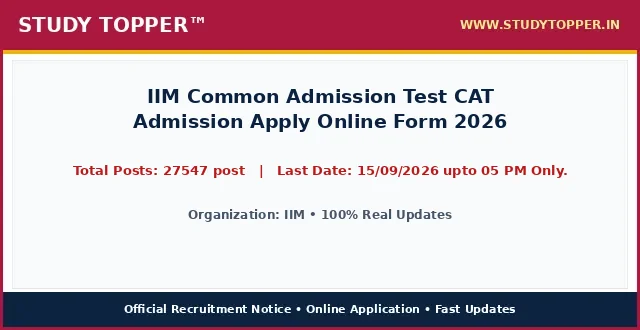
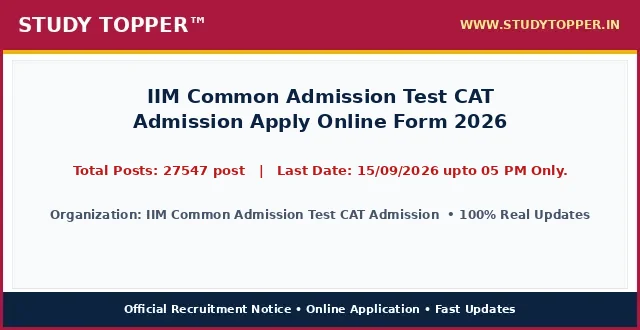
chore(lifecycle): daily auto-sort vacancies and update active dates

Changed region(s): [[0.0625, 0.6364, 0.9375, 0.6667]]

diff --git a/pages/iim-cat-jul26.html b/pages/iim-cat-jul26.html
@@ -987,12 +987,12 @@ ul.wp-block-latest-posts a:hover {
 <main class="site-main" id="main">
 <div class="gb-container gb-container-b39c368c">
 <h1 class="gb-headline gb-headline-e52a0102 gb-headline-text" style="font-size: 22px; font-weight: 700; color: #0000cd; text-align: left; margin: 8px 0 4px 0; line-height: 1.3; width: 100%; font-family: '-apple-system, BlinkMacSystemFont, 'Segoe UI', Roboto, 'Helvetica Neue', Arial, sans-serif', Times, serif, Hind, sans-serif;">IIM Common Admission Test CAT Admission Apply Online Form 2026</h1>
-<div class="gb-container gb-container-659bd175"><p style="color: #cd0808; font-weight: 700; font-size: 15px; margin: 2px 0 7px 0; text-align: left; font-family: '-apple-system, BlinkMacSystemFont, 'Segoe UI', Roboto, 'Helvetica Neue', Arial, sans-serif', Times, serif, Hind, sans-serif;">Post Date: August 22, 2026 12:18 PM</p></div>
-<p class="gb-headline gb-headline-550ae316 short_Details gb-headline-text" style="width: 100%; max-width: 100%; font-size: 16.8px; line-height: 1.55; color: #000000; text-align: justify; text-justify: inter-word; margin: 8px 0 14px 0; display: block; font-family: '-apple-system, BlinkMacSystemFont, 'Segoe UI', Roboto, 'Helvetica Neue', Arial, sans-serif', Times, serif, Hind, sans-serif;"><strong style="color: #0000cd;">IIM</strong> has officially published the recruitment notice <strong style="color: #cd0808;">IIM Common Admission Test CAT Admission Apply Online Form 2026</strong> under notification number 2026. Online applications are invited for 27547 post across multiple departments and cadre positions. Interested candidates possessing the requisite educational qualifications and falling between 18 Years to 40 Years can complete their online registration before the application deadline of 15/09/2026 upto 05 PM Only.. Applicants should read the eligibility criteria, category reservation rules, and exam scheme thoroughly before submitting applications.</p>
+<div class="gb-container gb-container-659bd175"><p style="color: #cd0808; font-weight: 700; font-size: 15px; margin: 2px 0 7px 0; text-align: left; font-family: '-apple-system, BlinkMacSystemFont, 'Segoe UI', Roboto, 'Helvetica Neue', Arial, sans-serif', Times, serif, Hind, sans-serif;">Post Date: August 22, 2026 12:58 PM</p></div>
+<p class="gb-headline gb-headline-550ae316 short_Details gb-headline-text" style="width: 100%; max-width: 100%; font-size: 16.8px; line-height: 1.55; color: #000000; text-align: justify; text-justify: inter-word; margin: 8px 0 14px 0; display: block; font-family: '-apple-system, BlinkMacSystemFont, 'Segoe UI', Roboto, 'Helvetica Neue', Arial, sans-serif', Times, serif, Hind, sans-serif;"><strong style="color: #0000cd;">IIM Common Admission Test CAT Admission  Form</strong> has officially published the recruitment notice <strong style="color: #cd0808;">IIM Common Admission Test CAT Admission Apply Online Form 2026</strong> under notification number Official Notification 2026. Online applications are invited for 27547 post across multiple departments and cadre positions. Interested candidates possessing the requisite educational qualifications and falling between 18 Years to 40 Years can complete their online registration before the application deadline of 15/09/2026 upto 05 PM Only.. Applicants should read the eligibility criteria, category reservation rules, and exam scheme thoroughly before submitting applications.</p>
 <div class="gb-container gb-container-9849916c"><div class="social-buttons-compact" style="display: flex; justify-content: flex-start; align-items: center; gap: 10px; margin: 10px 0 16px 0; width: 100%;"><a class="social-btn-compact wa" href="https://whatsapp.com/channel/0029Va9xyz" rel="noopener" style="background-color: #00d084; color: #ffffff; padding: 10px 18px; border-radius: 4px; text-decoration: none; font-weight: bold; font-size: 15.5px; display: inline-flex; align-items: center; justify-content: center; height: auto;" target="_blank">WhatsApp</a><a class="social-btn-compact tg" href="https://t.me/studytopperofficial" rel="noopener" style="background-color: #0088cc; color: #ffffff; padding: 10px 18px; border-radius: 4px; text-decoration: none; font-weight: bold; font-size: 15.5px; display: inline-flex; align-items: center; justify-content: center; height: auto;" target="_blank">Telegram</a></div></div>
 <div class="gb-container gb-container-f58e6ca1" style="border: 2px solid #5b032f; border-radius: 4px; overflow: hidden; margin: 15px 0 20px 0; background-color: #ffffff; width: 100%; box-sizing: border-box;">
 <h2 class="gb-headline gb-headline-2ca5a791 gb-headline-text" style="font-size: 16px; font-weight: 700; text-align: center; color: #ef0303; line-height: 1.3; padding: 6px 4px; margin: 0; background: #ffffff; font-family: '-apple-system, BlinkMacSystemFont, 'Segoe UI', Roboto, 'Helvetica Neue', Arial, sans-serif', Times, serif, Hind, sans-serif;">IIM Common Admission Test CAT Admission Apply Online Form 2026 &ndash; Latest Details &amp; Updates</h2>
-<h3 class="gb-headline gb-headline-7d5f86e8 gb-headline-text" style="font-size: 16px; font-weight: 600; text-align: center; color: #009703; line-height: 1.25; margin: 0; padding: 2px 4px 6px 4px; background: #ffffff; font-family: '-apple-system, BlinkMacSystemFont, 'Segoe UI', Roboto, 'Helvetica Neue', Arial, sans-serif', Times, serif, Hind, sans-serif;">IIM : Details &amp; Summary</h3>
+<h3 class="gb-headline gb-headline-7d5f86e8 gb-headline-text" style="font-size: 16px; font-weight: 600; text-align: center; color: #009703; line-height: 1.25; margin: 0; padding: 2px 4px 6px 4px; background: #ffffff; font-family: '-apple-system, BlinkMacSystemFont, 'Segoe UI', Roboto, 'Helvetica Neue', Arial, sans-serif', Times, serif, Hind, sans-serif;">IIM Common Admission Test CAT Admission  Form : Details &amp; Summary</h3>
 <p class="gb-headline gb-headline-79adf169 gb-headline-text" style="margin: 0 0 6px 0; font-family: '-apple-system, BlinkMacSystemFont, 'Segoe UI', Roboto, 'Helvetica Neue', Arial, sans-serif', Times, serif, Hind, sans-serif; text-align: center; font-size: 18px; font-weight: 700;"><a href="/" style="color: #0000ff; text-decoration: underline;">StudyTopper.in</a></p>
 
 <style id="st-post-boxes-responsive-css">
@@ -1047,10 +1047,10 @@ ul.wp-block-latest-posts a:hover {
 <div class="st-grid-row" style="display: flex; flex-wrap: wrap; width: 100%; border-top: 2px solid #5b032f; margin: 0; padding: 0; box-sizing: border-box;">
   <!-- Left Col: Age Limits -->
   <div class="st-col-half st-col-border-right" style="box-sizing: border-box; vertical-align: top;">
-    <div style="background-color: #046132; color: #ffffff; padding: 8px 10px; font-size: 17px; font-weight: 700; text-align: center; font-family: '-apple-system, BlinkMacSystemFont, 'Segoe UI', Roboto, 'Helvetica Neue', Arial, sans-serif', Times, serif, Hind, sans-serif;">IIM : Age Limits As On 01/08/2026</div>
+    <div style="background-color: #046132; color: #ffffff; padding: 8px 10px; font-size: 17px; font-weight: 700; text-align: center; font-family: '-apple-system, BlinkMacSystemFont, 'Segoe UI', Roboto, 'Helvetica Neue', Arial, sans-serif', Times, serif, Hind, sans-serif;">IIM Common Admission Test CAT Admission  Form : Age Limits As On 01/08/2026</div>
     <div style="padding: 12px 14px; background-color: #ffffff;">
       <ul style="padding-left: 20px; margin: 0; list-style-type: disc; text-align: left; font-size: 14pt; line-height: 1.6; font-family: '-apple-system, BlinkMacSystemFont, 'Segoe UI', Roboto, 'Helvetica Neue', Arial, sans-serif', Times, serif, Hind, sans-serif;">
-        <li><span style="font-size: 14pt;">Minimum Age : <strong>18 Years (As per post rules)</strong></span></li><li><span style="font-size: 14pt;">Maximum Age : <strong>40 Years (As per post rules)</strong></span></li><li><span style="font-size: 14pt;">Age Relaxation : <strong>Age Relaxation Extra as per IIM Recruitment Rules.</strong></span></li>
+        <li><span style="font-size: 14pt;">Minimum Age : <strong>18 Years (As per post rules)</strong></span></li><li><span style="font-size: 14pt;">Maximum Age : <strong>40 Years (As per post rules)</strong></span></li><li><span style="font-size: 14pt;">Age Relaxation : <strong>Age Relaxation Extra as per IIM Common Admission Test CAT Admission  Form Recruitment Rules.</strong></span></li>
       </ul>
     </div>
   </div>
@@ -1079,9 +1079,9 @@ ul.wp-block-latest-posts a:hover {
 <th style="background-color: #f53c00; color: #ffffff; padding: 6px 10px; text-align: center; border: 1px solid #d35400; font-size: 15px; font-weight: 700; font-family: '-apple-system, BlinkMacSystemFont, 'Segoe UI', Roboto, 'Helvetica Neue', Arial, sans-serif', Times, serif, Hind, sans-serif;">Eligibility Criteria</th>
 </tr>
 <tr>
-<td style="padding: 8px; border: 1px solid #ddd; font-weight: bold;">IIM IIM Common Admission Test CAT Admission Apply Online Form 2026</td>
+<td style="padding: 8px; border: 1px solid #ddd; font-weight: bold;">IIM Common Admission Test CAT Admission Apply Online Form 2026</td>
 <td style="padding: 8px; border: 1px solid #ddd; text-align: center; font-weight: bold;">27547 post</td>
-<td style="padding: 8px; border: 1px solid #ddd;">Passed relevant Educational Qualification from Any Recognized Board / University in India. Read full official notification for post-wise details.</td>
+<td style="padding: 8px; border: 1px solid #ddd;">Passed prescribed Educational Qualification from Any Recognized Board / University in India. Read full official notification for post-wise eligibility criteria.</td>
 </tr>
 </tbody>
 </table>
@@ -1093,7 +1093,7 @@ ul.wp-block-latest-posts a:hover {
 <table style="border-collapse: collapse; width: 100%;">
 <tbody>
 <tr>
-<td style="width: 100%; text-align: center;"><span style="background-color: #000080; color: #ffffff; font-size: 14pt; font-weight: bold; display: block; padding: 6px;"> How to Fill IIM Online Application Form </span></td>
+<td style="width: 100%; text-align: center;"><span style="background-color: #000080; color: #ffffff; font-size: 14pt; font-weight: bold; display: block; padding: 6px;"> How to Fill IIM Common Admission Test CAT Admission  Form Online Application Form </span></td>
 </tr>
 <tr>
 <td style="width: 100%;"><ol style="margin:0; padding-left:18px; text-align: left !important; list-style-position: outside !important"><li style="margin-bottom:6px; text-align: left !important;">Indian Institute of Management IIM are Issued Information Brochure and Invited Online Application Form for the IIM CAT Admission 2026 Candidate Can Apply Online from</li><li style="margin-bottom:6px; text-align: left !important;">03 August, 2026 to 15 September 2026.</li><li style="margin-bottom:6px; text-align: left !important;">Candidate Read the Notification Before Apply the Admission Application Form in IIM CAT Admission 2026.</li><li style="margin-bottom:6px; text-align: left !important;">Kindly Check and Collect the All Document – Eligibility, ID Proof, Address Details, Basic Details.</li><li style="margin-bottom:6px; text-align: left !important;">Kindly Ready Scan Document Related to Admission Form – Photo, Sign, ID Proof, Etc.</li><li style="margin-bottom:6px; text-align: left !important;">Before Submit the Application Form Must Check the Preview and All Column Carefully.</li><li style="margin-bottom:6px; text-align: left !important;">If Candidate Required to Paying the Application Fee Must Submit. If You have Not the Required Application Fees Your Form is Not Completed.</li><li style="margin-bottom:6px; text-align: left !important;">Take A Print Out of Final Submitted Form.</li><li style="margin-bottom:6px; text-align: left !important;">Resize candidate photograph and signature accurately using the <a href="https://indtool.in" rel="noopener" target="_blank"><strong>StudyTopper Tools</strong></a> image resizer at indtool.in.</li></ol></td>
@@ -1104,7 +1104,7 @@ ul.wp-block-latest-posts a:hover {
 <table style="border-collapse: collapse; width: 100%;">
 <tbody>
 <tr>
-<td style="width: 100%; text-align: center;"><span style="background-color: #000080; color: #ffffff; font-size: 14pt;"><strong><span style="color: #ffffff;"> IIM Recruitment 2026 : Mode Of Selection </span></strong></span></td>
+<td style="width: 100%; text-align: center;"><span style="background-color: #000080; color: #ffffff; font-size: 14pt;"><strong><span style="color: #ffffff;"> IIM Common Admission Test CAT Admission  Form Recruitment 2026 : Mode Of Selection </span></strong></span></td>
 </tr>
 <tr>
 <td style="width: 100%;">
